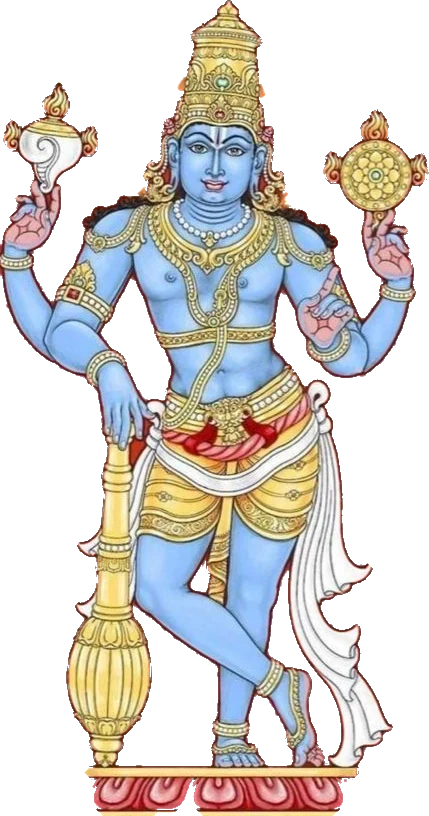
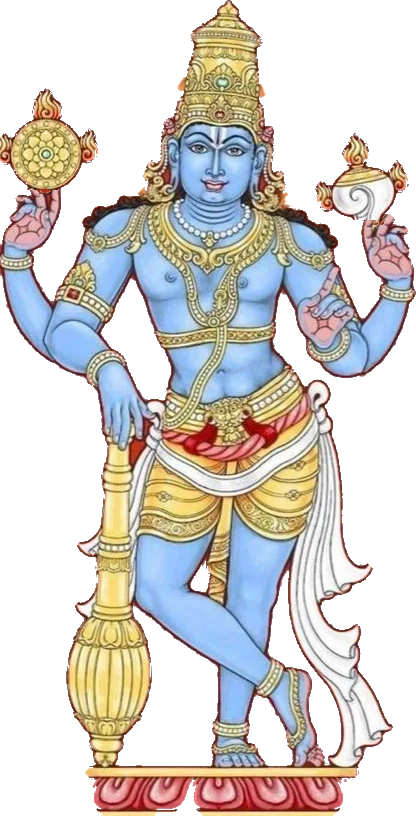
Garuda appears out of light to the navel; doors stand in space; Vijaya fix
- Garuda shown to the navel, cut free of the arch, upscaled, refined gold
  with rim light and bloom; manifests from an orb of light as rays burst,
  halo rises, wings unfold and he bows in anjali
- Gate now stands among the stars and nebula instead of a dark wall
- Vijaya holds the Chakra and Shankha in swapped hands

diff --git a/src/app/globals.css b/src/app/globals.css
@@ -499,8 +499,8 @@ html[lang="kn"] body {
     linear-gradient(to bottom, rgba(2, 1, 10, 0.1) 0%, rgba(2, 1, 10, 0.25) 45%, rgba(2, 1, 10, 0.72) 100%);
 }
 @keyframes wg-arrive {
-  0% { opacity: 0; transform: scale(1.5); filter: blur(10px) brightness(1.4); }
-  12% { opacity: 0.6; }
+  0% { opacity: 0.6; transform: scale(1.3); filter: blur(3px) brightness(0.55); }
+  12% { opacity: 0.8; filter: blur(8px) brightness(1.3); }
   20% { opacity: 1; transform: scale(1.12); filter: none; }
   100% { opacity: 1; transform: scale(1.02); filter: none; }
 }
@@ -537,22 +537,55 @@ html[lang="kn"] body {
    and keep beating slowly, then he bows in anjali as "Namaskaram" comes. */
 .wg-deity {
   --wg-w: clamp(110px, min(36vw, 24vh), 230px);
-  height: min(calc(var(--wg-w) * 2.3), 44vh);
-  height: min(calc(var(--wg-w) * 2.3), 44svh);
-  aspect-ratio: 633 / 1248;
+  height: min(calc(var(--wg-w) * 1.9), 38vh);
+  height: min(calc(var(--wg-w) * 1.9), 38svh);
+  aspect-ratio: 816 / 812;
   margin-block: calc(var(--wg-w) * 0.05);
 }
 .wg-garuda {
   position: absolute;
   inset: 0;
   animation:
-    wg-garuda-arrive 1.4s cubic-bezier(0.2, 0.8, 0.2, 1) calc(var(--wg-o) + 0.05s) both,
-    wg-hover 3.4s ease-in-out calc(var(--wg-o) + 1.45s) infinite;
+    wg-manifest 1.7s cubic-bezier(0.2, 0.7, 0.2, 1) calc(var(--wg-o) + 0.3s) both,
+    wg-hover 3.4s ease-in-out calc(var(--wg-o) + 2s) infinite;
 }
-@keyframes wg-garuda-arrive {
-  from { opacity: 0; transform: translateY(-55%) scale(0.55); filter: blur(6px) brightness(1.6); }
-  60% { opacity: 1; filter: none; }
-  to { opacity: 1; transform: none; filter: none; }
+/* He takes form out of light: white-hot and formless, then solid gold. */
+@keyframes wg-manifest {
+  0% { opacity: 0; transform: scale(0.86) translateY(4%); filter: brightness(3.6) blur(16px) saturate(0.3); }
+  35% { opacity: 1; filter: brightness(2.4) blur(6px) saturate(0.6); }
+  100% { opacity: 1; transform: none; filter: none; }
+}
+/* The point of light that blooms into an orb before he appears. */
+.wg-orb {
+  position: absolute;
+  left: 50%;
+  top: 46%;
+  width: 90%;
+  aspect-ratio: 1;
+  translate: -50% -50%;
+  border-radius: 50%;
+  background: radial-gradient(circle, #fffdf4 0 10%, rgba(255, 236, 180, 0.85) 26%, rgba(255, 205, 120, 0.35) 48%, transparent 70%);
+  opacity: 0;
+  animation: wg-orb 2s cubic-bezier(0.3, 0.6, 0.3, 1) calc(var(--wg-o) - 0.15s) both;
+}
+@keyframes wg-orb {
+  0% { opacity: 0; scale: 0.02; }
+  18% { opacity: 1; scale: 0.18; }
+  45% { opacity: 1; scale: 1.1; }
+  100% { opacity: 0; scale: 2.1; }
+}
+/* Luminous cloud he rises out of. */
+.wg-base {
+  position: absolute;
+  left: 50%;
+  bottom: -6%;
+  width: 120%;
+  height: 30%;
+  translate: -50% 0;
+  border-radius: 50%;
+  background: radial-gradient(ellipse at 50% 50%, rgba(255, 238, 196, 0.75) 0%, rgba(255, 206, 120, 0.3) 40%, transparent 70%);
+  filter: blur(6px);
+  animation: wg-fade 1.2s ease-out calc(var(--wg-o) + 0.5s) both, wg-breathe 3.2s ease-in-out calc(var(--wg-o) + 1.7s) infinite;
 }
 @keyframes wg-hover {
   50% { transform: translateY(-2.5%); }
@@ -561,7 +594,7 @@ html[lang="kn"] body {
   position: absolute;
   inset: 0;
   transform-origin: 50% 95%;
-  animation: wg-bow 1.5s ease-in-out calc(var(--wg-o) + 1.1s) both;
+  animation: wg-bow 1.5s ease-in-out calc(var(--wg-o) + 1.7s) both;
 }
 @keyframes wg-bow {
   45% { transform: perspective(600px) rotateX(9deg) translateY(2%) scale(0.98); }
@@ -574,18 +607,18 @@ html[lang="kn"] body {
   height: 100%;
   filter: drop-shadow(0 0 0.6rem rgba(255, 196, 90, 0.35));
 }
-/* Hinged at the shoulders (22.3% / 77.3% across, 36.8% down). */
+/* Hinged at the wing roots (22.5% / 79.4% across, 72.4% down). */
 .wg-wing-l {
-  transform-origin: 22.3% 36.8%;
+  transform-origin: 22.5% 72.4%;
   animation:
-    wg-wing-open-l 1.5s cubic-bezier(0.3, 0.7, 0.3, 1) calc(var(--wg-o) + 0.35s) both,
-    wg-wing-beat-l 1.7s ease-in-out calc(var(--wg-o) + 1.85s) infinite alternate;
+    wg-wing-open-l 1.5s cubic-bezier(0.3, 0.7, 0.3, 1) calc(var(--wg-o) + 0.9s) both,
+    wg-wing-beat-l 1.7s ease-in-out calc(var(--wg-o) + 2.4s) infinite alternate;
 }
 .wg-wing-r {
-  transform-origin: 77.3% 36.8%;
+  transform-origin: 79.4% 72.4%;
   animation:
-    wg-wing-open-r 1.5s cubic-bezier(0.3, 0.7, 0.3, 1) calc(var(--wg-o) + 0.35s) both,
-    wg-wing-beat-r 1.7s ease-in-out calc(var(--wg-o) + 1.85s) infinite alternate;
+    wg-wing-open-r 1.5s cubic-bezier(0.3, 0.7, 0.3, 1) calc(var(--wg-o) + 0.9s) both,
+    wg-wing-beat-r 1.7s ease-in-out calc(var(--wg-o) + 2.4s) infinite alternate;
 }
 @keyframes wg-wing-open-l {
   from { transform: rotate(34deg) scale(0.7); opacity: 0; }
@@ -610,16 +643,16 @@ html[lang="kn"] body {
 /* Light gathering at the joined hands as he greets. */
 .wg-anjali {
   position: absolute;
-  left: 50%;
-  top: 39%;
-  width: 34%;
+  left: 51%;
+  top: 78%;
+  width: 30%;
   aspect-ratio: 1;
   translate: -50% -50%;
   border-radius: 50%;
   background: radial-gradient(circle, rgba(255, 250, 225, 0.7) 0 5%, rgba(255, 214, 130, 0.35) 25%, rgba(255, 190, 90, 0) 70%);
   mix-blend-mode: screen;
   opacity: 0;
-  animation: wg-anjali 2.4s ease-in-out calc(var(--wg-o) + 1.3s) infinite;
+  animation: wg-anjali 2.4s ease-in-out calc(var(--wg-o) + 1.8s) infinite;
 }
 @keyframes wg-anjali {
   0%, 100% { opacity: 0.25; scale: 0.8; }
@@ -629,8 +662,8 @@ html[lang="kn"] body {
 .wg-aura {
   position: absolute;
   left: 50%;
-  top: 36%;
-  width: 260%;
+  top: 44%;
+  width: 230%;
   aspect-ratio: 1;
   translate: -50% -50%;
   border-radius: 50%;
@@ -639,7 +672,63 @@ html[lang="kn"] body {
     repeating-conic-gradient(rgba(255, 224, 160, 0.16) 0deg 5deg, transparent 5deg 15deg);
   -webkit-mask-image: radial-gradient(circle, #000 20%, transparent 62%);
   mask-image: radial-gradient(circle, #000 20%, transparent 62%);
-  animation: wg-fade 1.2s ease-out calc(var(--wg-o) + 0.4s) both, wg-spin 40s linear calc(var(--wg-o) + 0.4s) infinite;
+  animation: wg-rays-burst 1.8s cubic-bezier(0.2, 0.8, 0.2, 1) calc(var(--wg-o) + 0.35s) both, wg-spin 60s linear calc(var(--wg-o) + 0.35s) infinite;
+}
+@keyframes wg-rays-burst {
+  0% { opacity: 0; scale: 0.15; }
+  40% { opacity: 1; scale: 1.12; }
+  100% { opacity: 0.75; scale: 1; }
+}
+/* A ring of light behind his head. */
+.wg-halo {
+  position: absolute;
+  left: 50%;
+  top: 36%;
+  width: 54%;
+  aspect-ratio: 1;
+  translate: -50% -50%;
+  border-radius: 50%;
+  background:
+    radial-gradient(circle, rgba(255, 240, 200, 0.55) 0%, rgba(255, 210, 120, 0.2) 45%, transparent 62%),
+    radial-gradient(circle, transparent 60%, rgba(255, 225, 150, 0.9) 63%, rgba(255, 225, 150, 0) 68%);
+  box-shadow: 0 0 2.5rem rgba(255, 200, 100, 0.45);
+  animation: wg-halo-in 1s ease-out calc(var(--wg-o) + 0.9s) both, wg-breathe 3s ease-in-out calc(var(--wg-o) + 1.9s) infinite;
+}
+@keyframes wg-halo-in {
+  from { opacity: 0; scale: 0.3; }
+  to { opacity: 1; scale: 1; }
+}
+/* A band of light sweeping over the gold, clipped to his figure. */
+.wg-shine {
+  position: absolute;
+  inset: 0;
+  background: linear-gradient(115deg, transparent 38%, rgba(255, 252, 235, 0.85) 50%, transparent 62%) 0 0 / 250% 100% no-repeat;
+  -webkit-mask: url("/images/garuda/body.webp?v=2") center / 100% 100% no-repeat;
+  mask: url("/images/garuda/body.webp?v=2") center / 100% 100% no-repeat;
+  mix-blend-mode: overlay;
+  animation: wg-shine 3.6s ease-in-out calc(var(--wg-o) + 2.2s) infinite;
+  opacity: 0;
+}
+@keyframes wg-shine {
+  0% { background-position: 120% 0; opacity: 1; }
+  45%, 100% { background-position: -40% 0; opacity: 1; }
+}
+.wg-ember {
+  position: absolute;
+  bottom: 8%;
+  border-radius: 50%;
+  background: #fff1c2;
+  box-shadow: 0 0 6px 2px rgba(255, 200, 110, 0.85);
+  opacity: 0;
+  animation-name: wg-ember;
+  animation-timing-function: ease-out;
+  animation-iteration-count: infinite;
+  animation-fill-mode: both;
+}
+@keyframes wg-ember {
+  0% { opacity: 0; transform: translateY(0) scale(1); }
+  15% { opacity: 0.9; }
+  100% { opacity: 0; transform: translateY(-260%) translateY(-18vh) translateX(6px) scale(0.4); }
 }
 .wg-spark {
   position: absolute;
@@ -744,8 +833,9 @@ html[lang="kn"] body {
 @media (prefers-reduced-motion: reduce) {
   .wg-root { --wg-open: 0s; --wg-o: 0s; }
   .wg-space, .wg-glow, .wg-name, .wg-root .petal, .wg-garuda, .wg-aura { animation: wg-fade 0.6s ease-out both; }
-  .wg-wing, .wg-garuda-bow, .wg-anjali { animation: none; }
-  .wg-spark { display: none; }
+  .wg-wing, .wg-garuda-bow, .wg-anjali, .wg-shine { animation: none; }
+  .wg-spark, .wg-ember, .wg-orb { display: none; }
+  .wg-halo { animation: wg-fade 0.6s ease-out both; }
   .wg-shooting { display: none; }
   .wg-deity, .wg-letter, .wg-divider, .wg-step { animation: wg-fade 0.6s ease-out both; animation-delay: 0s; }
   .wg-root .petal { display: none; }
@@ -825,7 +915,7 @@ html[lang="kn"] body {
   right: 23.4%;
   top: 20.7%;
   bottom: 0;
-  box-shadow: 0 0 9vmax 2vmax rgba(255, 186, 90, 0.2), 0 0 0 150vmax #0b0503;
+  box-shadow: 0 0 9vmax 2vmax rgba(255, 186, 90, 0.22);
 }
 .wg-gate-flood {
   position: absolute;

diff --git a/src/components/account/WelcomeGreeting.tsx b/src/components/account/WelcomeGreeting.tsx
@@ -54,39 +54,58 @@ const PETALS: { left: string; size: number; duration: number; delay: number; dri
 
 // Feather sparks thrown off as the wings open: [side, x%, y%, drift x, drift y, delay s].
 const SPARKS: ["l" | "r", number, number, number, number, number][] = [
-  ["l", 6, 14, -60, -30, 0.55],
-  ["l", 2, 24, -80, 10, 0.7],
-  ["l", 10, 32, -50, 40, 0.9],
-  ["l", 4, 18, -70, -60, 1.6],
-  ["r", 94, 14, 60, -30, 0.6],
-  ["r", 98, 24, 80, 10, 0.75],
-  ["r", 90, 32, 50, 40, 0.95],
-  ["r", 96, 18, 70, -60, 1.7],
+  ["l", 6, 42, -60, -30, 1.1],
+  ["l", 2, 56, -80, 10, 1.25],
+  ["l", 10, 70, -50, 40, 1.45],
+  ["l", 4, 48, -70, -60, 2.1],
+  ["r", 94, 42, 60, -30, 1.15],
+  ["r", 98, 56, 80, 10, 1.3],
+  ["r", 90, 70, 50, 40, 1.5],
+  ["r", 96, 48, 70, -60, 2.2],
 ];
 
-// Garuda, Periya Thiruvadi, welcoming the devotee: he flies down, spreads
-// his wings wide and bows with hands joined in anjali. Built from a Belur
-// stone Garuda, recast in gold, with the wings as separate layers.
+// Embers drifting up around him: [x%, delay s, duration s, size px].
+const EMBERS: [number, number, number, number][] = [
+  [12, 0.2, 3.2, 4], [24, 1.4, 3.6, 3], [36, 0.8, 3.0, 5], [64, 0.5, 3.4, 4],
+  [76, 1.8, 3.1, 3], [88, 1.1, 3.8, 5], [18, 2.4, 3.3, 3], [82, 2.9, 3.5, 4],
+];
+
+// Garuda, Periya Thiruvadi, welcoming the devotee (shown to the navel,
+// rising out of light): a point of light blooms into an orb, he takes form
+// within it as rays burst out, a halo rises behind his head, his wings
+// unfold wide and he bows with hands joined in anjali — a shine sweeping
+// over the gold, embers rising. From the Belur stone Garuda: cut free of
+// its arch, upscaled, cast in gold, with the wings as separate layers.
 function Garuda() {
   return (
     <div className="wg-deity relative" aria-hidden>
       <span className="wg-aura" />
+      <span className="wg-orb" />
       <div className="wg-garuda">
+        <span className="wg-halo" />
         <div className="wg-garuda-bow">
-          <Image src="/images/garuda/garuda-wing-l.webp" alt="" width={633} height={1248} priority unoptimized className="wg-wing wg-wing-l" />
-          <Image src="/images/garuda/garuda-wing-r.webp" alt="" width={633} height={1248} priority unoptimized className="wg-wing wg-wing-r" />
-          <Image src="/images/garuda/garuda-body.webp" alt="" width={633} height={1248} priority unoptimized className="wg-garuda-body" />
+          <Image src="/images/garuda/wing-left.webp?v=2" alt="" width={816} height={812} priority unoptimized className="wg-wing wg-wing-l" />
+          <Image src="/images/garuda/wing-right.webp?v=2" alt="" width={816} height={812} priority unoptimized className="wg-wing wg-wing-r" />
+          <Image src="/images/garuda/body.webp?v=2" alt="" width={816} height={812} priority unoptimized className="wg-garuda-body" />
+          <span className="wg-shine" />
           <span className="wg-anjali" />
         </div>
-        {SPARKS.map(([side, x, y, dx, dy, delay], i) => (
+        <span className="wg-base" />
+        {SPARKS.map(([, x, y, dx, dy, delay], i) => (
           <span
             key={i}
             className="wg-spark"
             style={{ left: `${x}%`, top: `${y}%`, animationDelay: after(delay), ["--dx" as string]: `${dx}px`, ["--dy" as string]: `${dy}px` }}
-            data-side={side}
           />
         ))}
       </div>
+      {EMBERS.map(([x, delay, duration, size], i) => (
+        <span
+          key={i}
+          className="wg-ember"
+          style={{ left: `${x}%`, width: size, height: size, animationDelay: after(delay), animationDuration: `${duration}s` }}
+        />
+      ))}
     </div>
   );
 }

diff --git a/src/components/account/CosmosCanvas.tsx b/src/components/account/CosmosCanvas.tsx
@@ -78,25 +78,21 @@ export default function CosmosCanvas({ focusY = 0.38, startDelayMs = 0 }: { focu
     const stars = Array.from({ length: STAR_COUNT }, () => spawn());
 
     let raf = 0;
-    // The warp waits for the doors to open (nothing is drawn until then).
+    // The warp waits for the doors to open; until then the stars just drift.
     const t0 = performance.now() + (still ? 0 : startDelayMs);
     let last = performance.now();
 
     const frame = (now: number) => {
       const t = (now - t0) / 1000;
-      if (t < 0) {
-        last = now;
-        raf = requestAnimationFrame(frame);
-        return;
-      }
       const dt = Math.min(0.05, (now - last) / 1000);
       last = now;
-      const speed = still ? 0 : DRIFT + (WARP - DRIFT) * Math.exp(-t / 0.32);
+      // Before the warp: a slow drift (stars around the closed doors).
+      const speed = still ? 0 : t < 0 ? DRIFT : DRIFT + (WARP - DRIFT) * Math.exp(-t / 0.32);
       const cx = w / 2;
       const cy = h * focusY;
       const scale = Math.max(w, h) * 0.55;
       // Settled stars are quieter than the warp: the photo is the sky.
-      const calm = Math.min(1, Math.max(0.45, 1 - (t - 0.6) * 0.6));
+      const calm = t < 0 ? 0.75 : Math.min(1, Math.max(0.45, 1 - (t - 0.6) * 0.6));
 
       ctx.clearRect(0, 0, w, h);
       ctx.globalCompositeOperation = "lighter";
